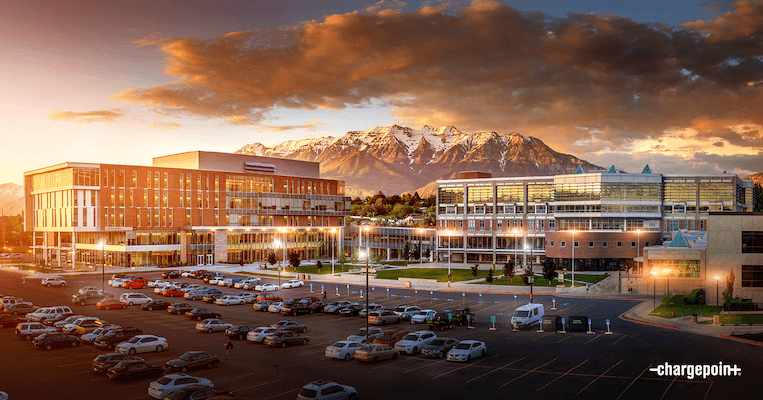
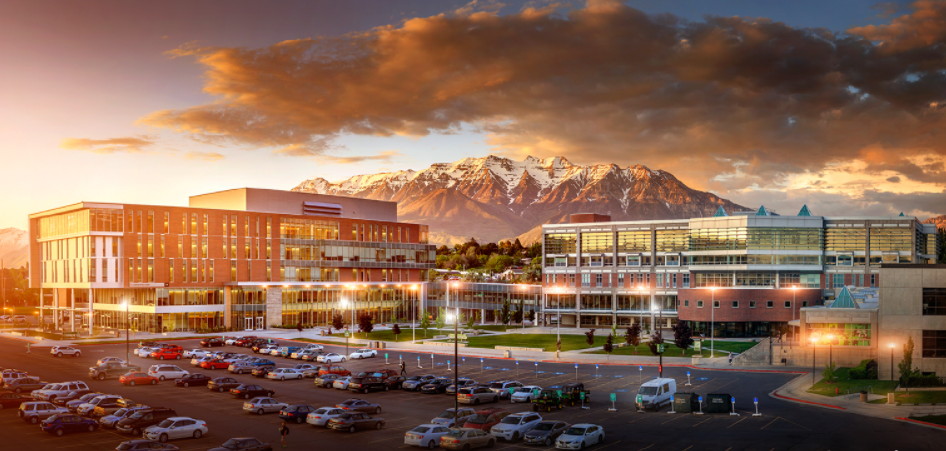
city images, about description

diff --git a/templates/loginPage/index.html b/templates/loginPage/index.html
@@ -24,7 +24,7 @@
         <div class="container-fluid">
             <div class="col-md-4 col-sm-6">
                 <div class="portfolio-item">
-                    <a href="{% static 'img/big_portfolio_item_4.png' %}" data-lightbox="image-1"><div class="thumb">
+                    <a href="{% static 'img/provo.jpg' %}" data-lightbox="image-1"><div class="thumb">
                         <div class="hover-effect">
                             <div class="hover-content">
                                 <h1>Provo <em>Utah</em></h1>
@@ -32,14 +32,14 @@
                             </div>
                         </div>
                         <div class="image">
-                            <img src="{% static 'img/portfolio_item_4.png' %}">
+                            <img src="{% static 'img/provo.jpg' %}" height="380">
                         </div>
                     </div></a>
                 </div>
             </div>
             <div class="col-md-4 col-sm-6">
                 <div class="portfolio-item">
-                    <a href="{% static 'img/big_portfolio_item_2.png' %}" data-lightbox="image-1"><div class="thumb">
+                    <a href="{% static 'img/Orem.png' %}" data-lightbox="image-1"><div class="thumb">
                         <div class="hover-effect">
                             <div class="hover-content">
                                 <h1>Orem <em>Utah</em></h1>
@@ -47,29 +47,29 @@
                             </div>
                         </div>
                         <div class="image">
-                            <img src="{% static 'img/portfolio_item_2.png' %}">
+                            <img src="{% static 'img/Orem.png' %}" height="380">
                         </div>
                     </div></a>
                 </div>
             </div>
             <div class="col-md-4 col-sm-6">
                 <div class="portfolio-item">
-                    <a href="{% static 'img/big_portfolio_item_3.png' %}" data-lightbox="image-1"><div class="thumb">
-                        <div class="hover-effect">
+                    <a href="{% static 'img/springville.jpg' %}" data-lightbox="image-1"><div class="thumb">
+                        <div class="hover-effect">   
                             <div class="hover-content">
                                 <h1>Springville <em>Utah</em></h1>
                                 <p>Enter a speeding ticket received in Springville</p>
                             </div>
                         </div>
                         <div class="image">
-                            <img src="{% static 'img/portfolio_item_3.png' %}">
+                            <img src="{% static 'img/springville.jpg' %}" height="380">
                         </div>
                     </div></a>
                 </div>
             </div>
             <div class="col-md-4 col-sm-6">
                 <div class="portfolio-item">
-                    <a href="{% static 'img/big_portfolio_item_1.png' %}" data-lightbox="image-1"><div class="thumb">
+                    <a href="{% static 'img/spanishfork.jpg' %}" data-lightbox="image-1"><div class="thumb">
                         <div class="hover-effect">
                             <div class="hover-content">
                                 <h1>Spanish Fork <em>Utah</em></h1>
@@ -77,14 +77,14 @@
                             </div>
                         </div>
                         <div class="image">
-                            <img src="{% static 'img/portfolio_item_1.png' %}">
+                            <img src="{% static 'img/spanishfork.jpg' %}" height="380">
                         </div>
                     </div></a>
                 </div>
             </div>
             <div class="col-md-4 col-sm-6">
                 <div class="portfolio-item">
-                    <a href="{% static 'img/big_portfolio_item_5.png' %}" data-lightbox="image-1"><div class="thumb">
+                    <a href="{% static 'img/pleasantgrove.jpg' %}" data-lightbox="image-1"><div class="thumb">
                         <div class="hover-effect">
                             <div class="hover-content">
                                 <h1>Pleasant Grove <em>Utah</em></h1>
@@ -92,14 +92,14 @@
                             </div>
                         </div>
                         <div class="image">
-                            <img src="{% static 'img/portfolio_item_5.png' %}">
+                            <img src="{% static 'img/pleasantgrove.jpg' %}" height="380">
                         </div>
                     </div></a>
                 </div>
             </div>
             <div class="col-md-4 col-sm-6">
                 <div class="portfolio-item">
-                    <a href="{% static 'img/big_portfolio_item_6.png' %}" data-lightbox="image-1"><div class="thumb">
+                    <a href="{% static 'img/lehi.jpg' %}" data-lightbox="image-1"><div class="thumb">
                         <div class="hover-effect">
                             <div class="hover-content">
                                 <h1>Lehi <em>Utah</em></h1>
@@ -107,14 +107,14 @@
                             </div>
                         </div>
                         <div class="image">
-                            <img src="{% static 'img/portfolio_item_6.png' %}">
+                            <img src="{% static 'img/lehi.jpg' %}" height="380">
                         </div>
                     </div></a>
                 </div>
             </div>
             <div class="col-md-4 col-sm-6">
                 <div class="portfolio-item">
-                    <a href="{% static 'img/big_portfolio_item_7.png' %}" data-lightbox="image-1"><div class="thumb">
+                    <a href="{% static 'img/saratoga.jpg' %}" data-lightbox="image-1"><div class="thumb">
                         <div class="hover-effect">
                             <div class="hover-content">
                                 <h1>Saratoga Springs <em>Utah</em></h1>
@@ -122,14 +122,14 @@
                             </div>
                         </div>
                         <div class="image">
-                            <img src="{% static 'img/portfolio_item_7.png' %}">
+                            <img src="{% static 'img/saratoga.jpg' %}" height="380">
                         </div>
                     </div></a>
                 </div>
             </div>
             <div class="col-md-4 col-sm-6">
                 <div class="portfolio-item">
-                    <a href="{% static 'img/big_portfolio_item_8.png' %}" data-lightbox="image-1"><div class="thumb">
+                    <a href="{% static 'img/highland.jpg' %}" data-lightbox="image-1"><div class="thumb">
                         <div class="hover-effect">
                             <div class="hover-content">
                                 <h1>Highland <em>Utah</em></h1>
@@ -137,14 +137,14 @@
                             </div>
                         </div>
                         <div class="image">
-                            <img src="{% static 'img/portfolio_item_8.png' %}">
+                            <img src="{% static 'img/highland.jpg' %}" height="380">
                         </div>
                     </div></a>
                 </div>
             </div>
             <div class="col-md-4 col-sm-6">
             	<div class="portfolio-item">
-                	<a href="{% static 'img/big_portfolio_item_9.png' %}" data-lightbox="image-1"><div class="thumb">
+                	<a href="{% static 'img/othercity.jpg' %}" data-lightbox="image-1"><div class="thumb">
                         <div class="hover-effect">
                             <div class="hover-content">
                                 <h1>Other City <em>Utah</em></h1>
@@ -152,7 +152,7 @@
                             </div>
                         </div>
                         <div class="image">
-                            <img src="{% static 'img/portfolio_item_9.png' %}">
+                            <img src="{% static 'img/othercity.jpg' %}" height="380">
                         </div>
                     </div></a>
                 </div>

diff --git a/templates/loginPage/about.html b/templates/loginPage/about.html
@@ -29,9 +29,13 @@
             <div class="col-md-5 col-md-offset-7">
                 <div class="content">
                     <h2>What is the purpose of this site?</h2>
-                    <span>Read below and it will explain</span>
-                    <p>Vivamus vitae libero euismod, pretium magna a, vulputate metus. Curabitur et arcu felis. Praesent aliquet lectus in purus viverra varius. 
-                    <br><br>Suspendisse et rutrum nisl. Phasellus porttitor metus vel justo blandit, in finibus neque elementum. Nullam semper, turpis quis egestas consequat, dui eros tristique lectus, ac euismod ex quam id mauris.</p>
+                    <span>You got a ticket, now enter some info and help a future someone avoid getting one</span>
+                    <p>Here at Speeding Tickets - Utah we are all about collecting the information needed to help prevent future residents of Utah Valley
+                        from getting a completely avoidable speeding ticket. As we all know too well, the highway patrols of Utah Valley can sometimes be merciless
+                        in their enforcement of driving over the speed limit. Our hope is that drivers like you will input your data into our state-of-the-art 
+                        database so we can analyse and display the data for any other drivers hoping to avoid making the same unfortunate mistake as you. 
+                    <br><br>Help out your fellow men... or women, and put your data into the database so we can learn, be safe, and avoid paying for completely 
+                unnesessary tickets together.</p>
                     <!-- <div class="simple-btn">
                         <a href="#">Continue Reading</a>
                     </div> -->

diff --git a/static/css/templatemo-style.css b/static/css/templatemo-style.css
@@ -28,7 +28,7 @@ body, html {
 
 
 .page-heading {
-  background-image: url(../img/heading_bg.png);
+  background-image: url(../img/highway.png);
   background-repeat: no-repeat;
   background-size: cover;
   background-position: center center;
